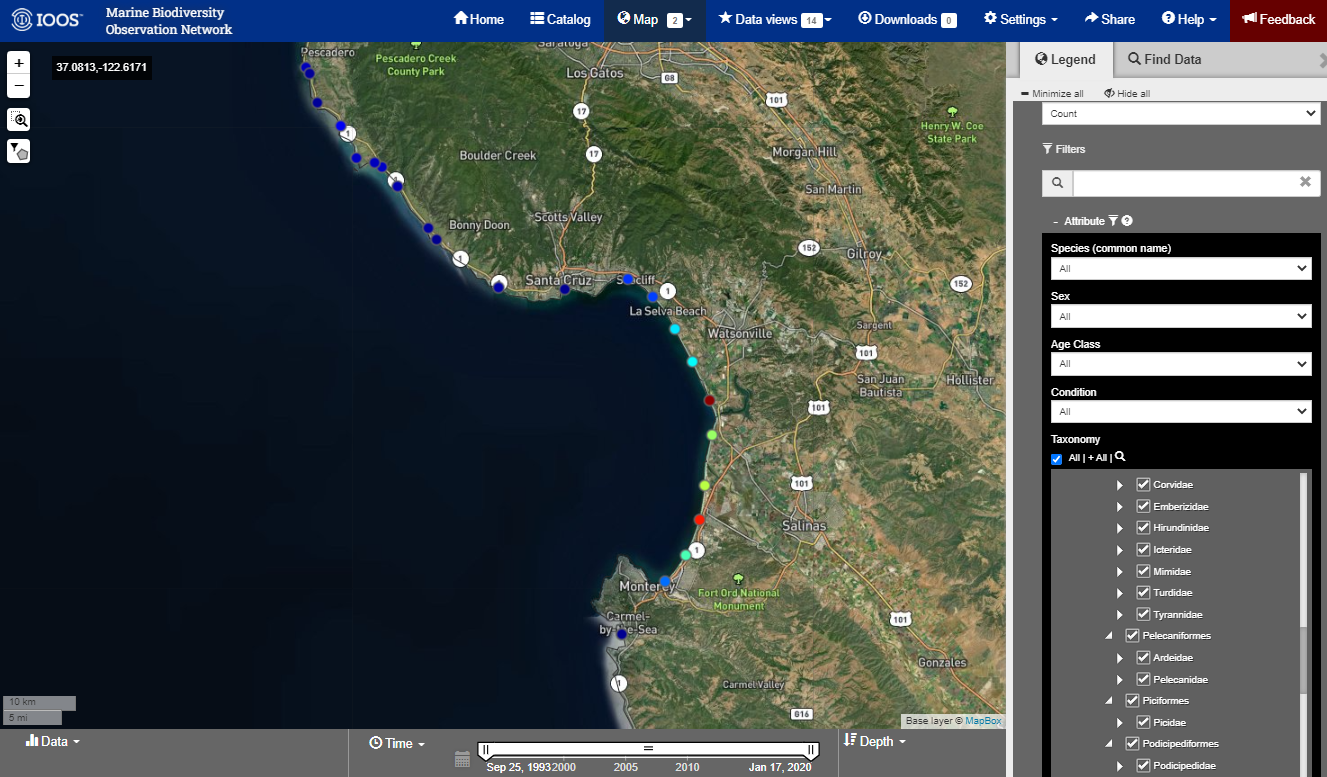
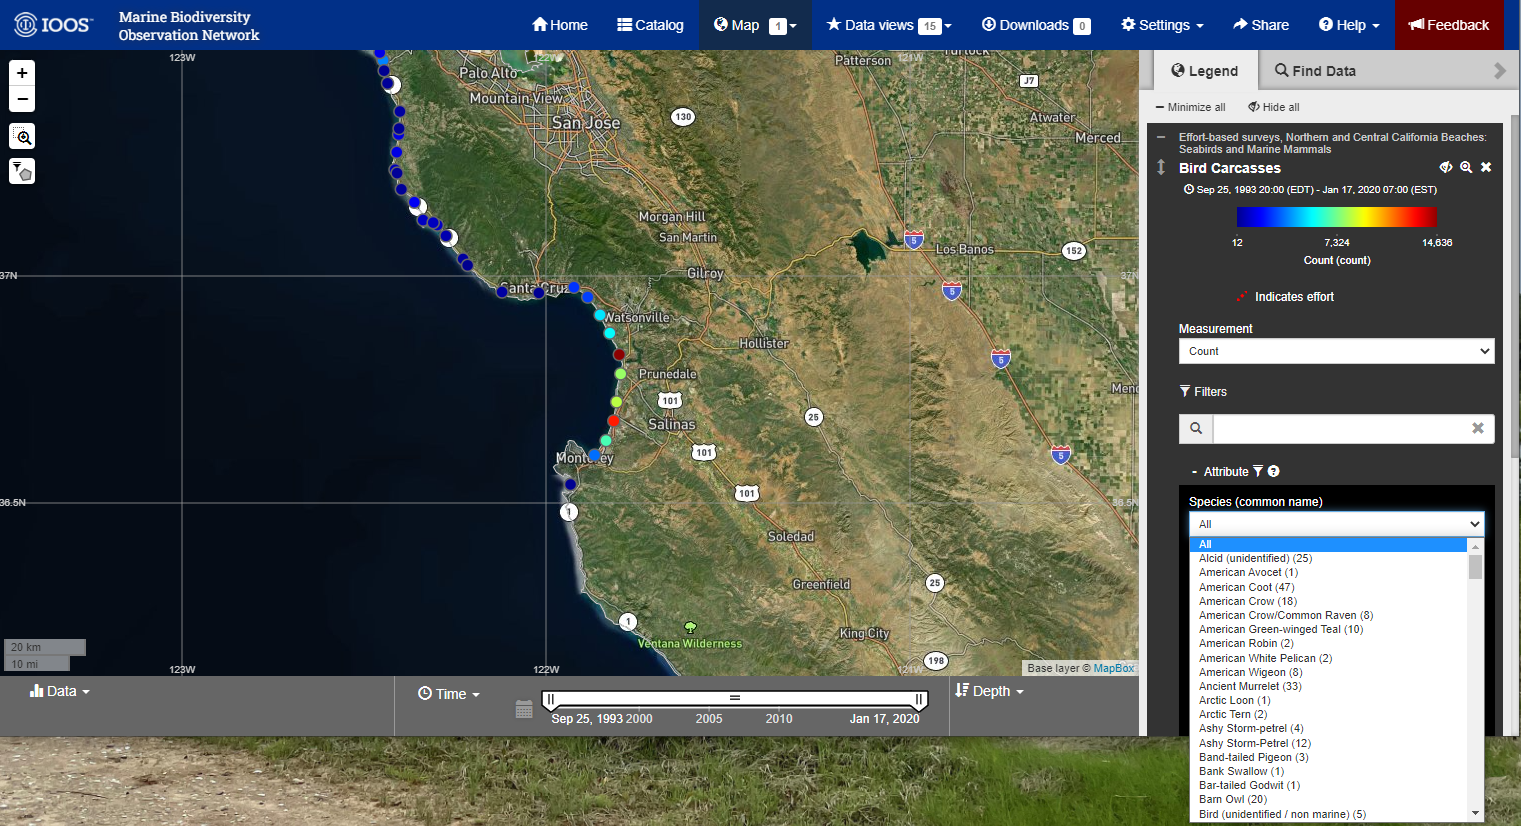
fixing screenshots

diff --git a/_docs/data-portal-demo.md b/_docs/data-portal-demo.md
@@ -139,8 +139,8 @@ Link to **Map View** with `bird carcass` layer loaded: <https://mbon.ioos.us/?ls
 ## Filtering Data 
 The portal has multiple ways to filter data: by time, by taxonomy, by collection group and more. 
 
-In the Legend box select plus sign on the **Species (common name)** drop-down menus. This will give a list of the common 
-names of different birds that were identified.
+In the Legend box select plus sign next to **Attribute** and open up the **Species (common name)** drop-down menus. 
+This will give a list of the common names of different birds that were identified.
 
 ![](./img_11.png)
 
